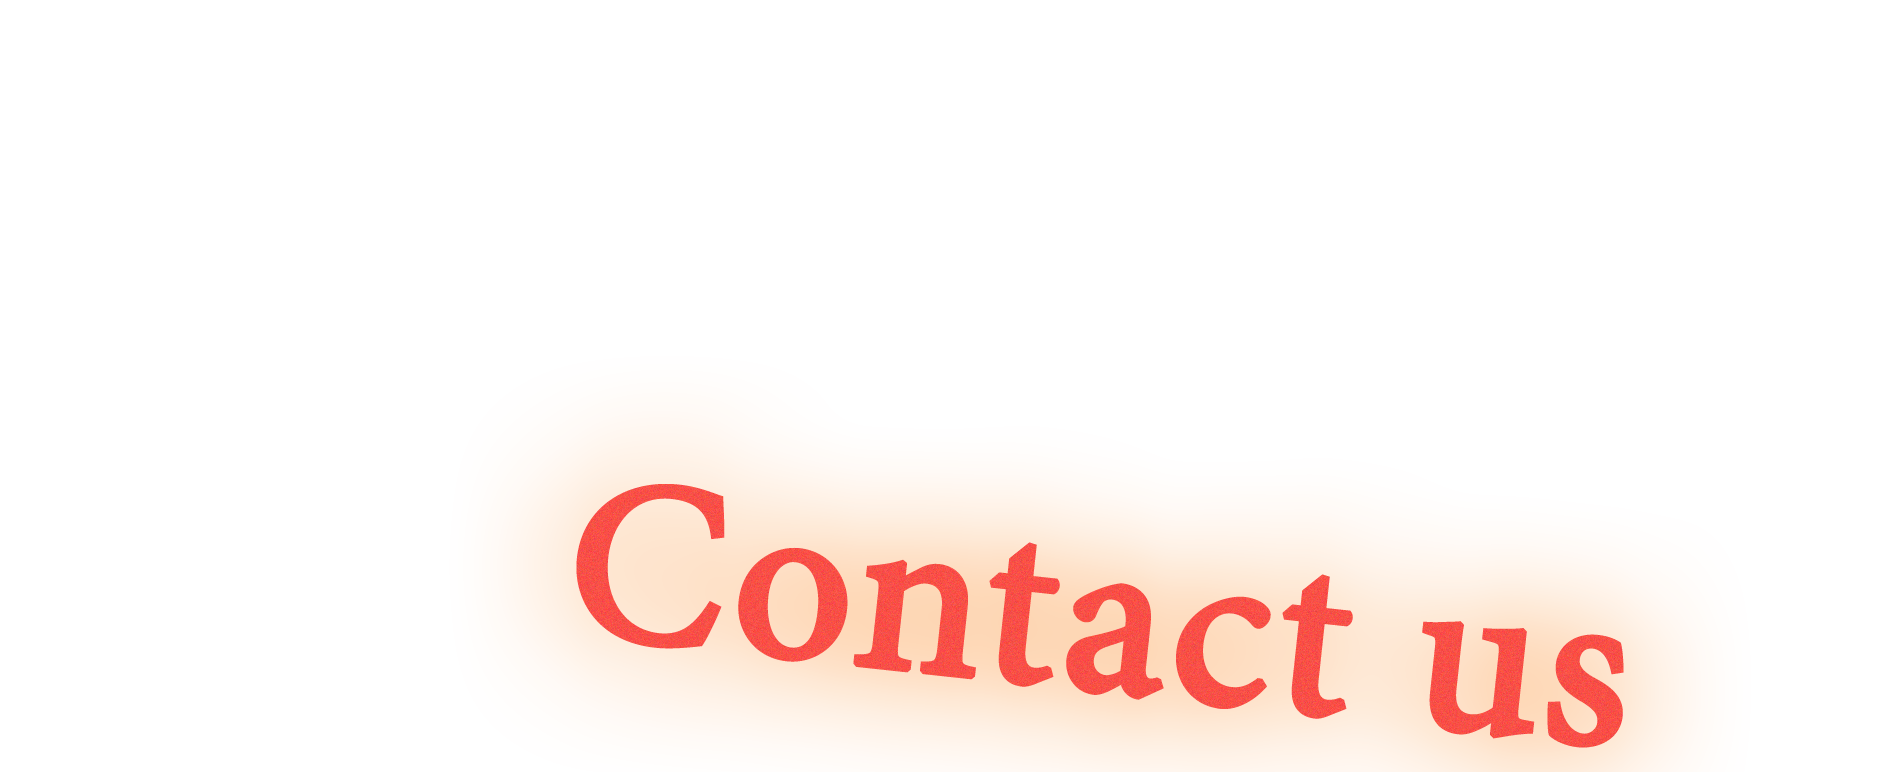
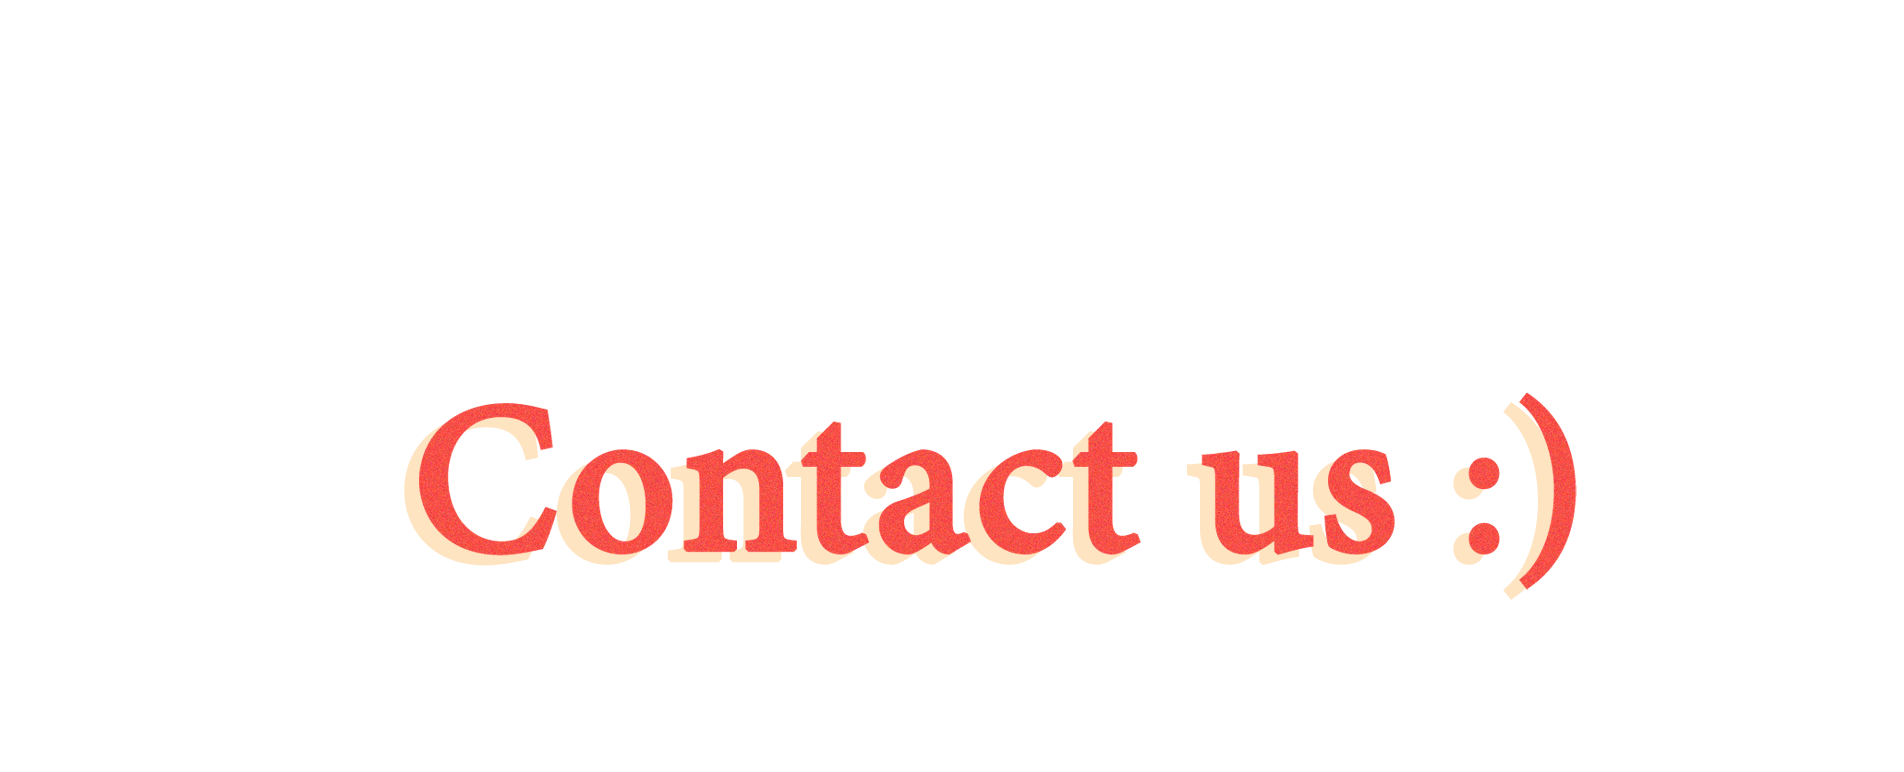
homepage responsiveness done

Changed region(s): [[0.1859, 0.4974, 0.8986, 1.0]]

diff --git a/client/src/components/Home.jsx b/client/src/components/Home.jsx
@@ -70,8 +70,8 @@ function Home() {
                     </div>
                 </div>
                 {/* Contact div */}
-                <div style={{ width: '100%', display: 'flex', justifyContent: 'center', alignItems: 'flex-end', minHeight: '120px', position: 'relative' }}>
-                    <div style={{ width: '230px', position: 'relative' }}>
+                <div style={{ width: '100%', display: 'flex', justifyContent: 'center', alignItems: 'flex-end', minHeight: '120px', position: 'relative', bottom: '70px' }}>
+                    <div style={{ width: '300px', position: 'relative' }}>
                         <img
                             src={language === 'heb' ? contact1Heb : contact1Eng}
                             alt="Contact background"
@@ -169,9 +169,12 @@ function Home() {
         <div style={{ display: 'flex', flexDirection: 'row', width: '100vw', minHeight: '100vh' }}>
             {/* Left container */}
             <div style={{
-                flex: 1, display: 'flex', alignItems: 'center', justifyContent: 'center', position: 'relative'
+                flex: 1, display: 'flex', alignItems: 'end', justifyContent: 'center', position: 'relative'
             }}>
-                <div style={{ width: '230px', display: 'flex', flexDirection: 'column', alignItems: 'center', position: 'relative', bottom: '-210px', left: '0' }}>
+                <div style={{
+                    width: '300px', display: 'flex', flexDirection: 'column', alignItems: 'center', position: 'relative',
+                    bottom: '100px', left: '0'
+                }}>
                     <img
                         src={language === 'heb' ? contact1Heb : contact1Eng}
                         alt="Contact background"
